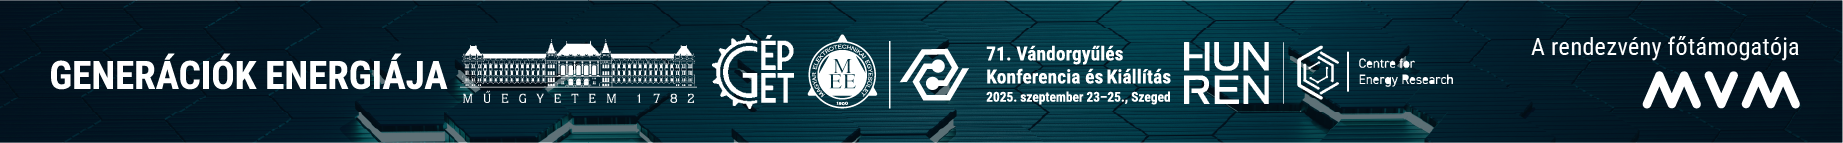
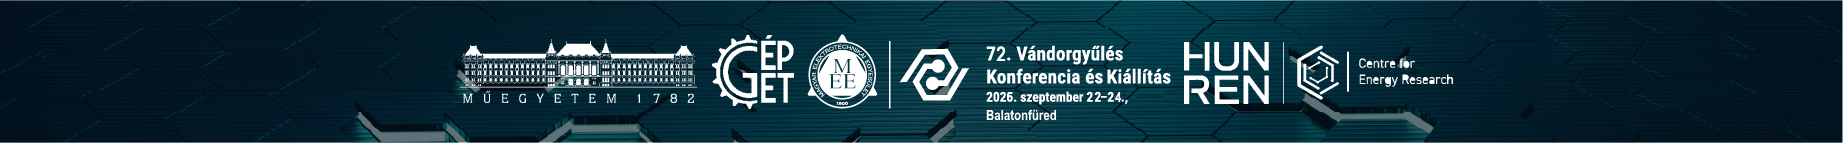
Modify template

diff --git a/vandorgyules_prez.tex b/vandorgyules_prez.tex
@@ -238,7 +238,7 @@
 Konferencia és Kiállítás
 \end{Large}
 
-\vspace{4ex}
+\vspace{3.5ex}
 \hspace{-0.5cm}
 \begin{flushleft}
 \begin{LARGE}
@@ -250,7 +250,8 @@ Konferencia és Kiállítás
 \vspace{1.5ex}
 \\
 {\color{white} \small{2026.~szeptember 23., BALATONFÜRED}}
-\vspace{1ex}
+
+\vspace{0.5ex}
 
 {\footnotesize\color{white}$^1$HUN-REN Energiatudományi Kutatóközpont}
 
